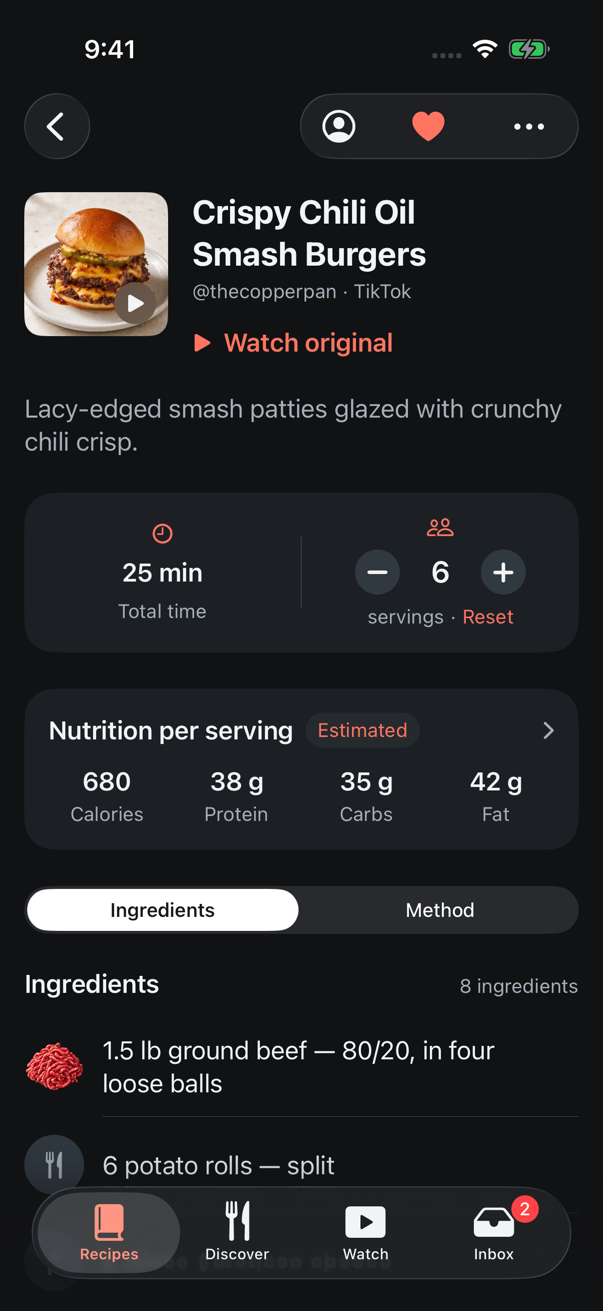
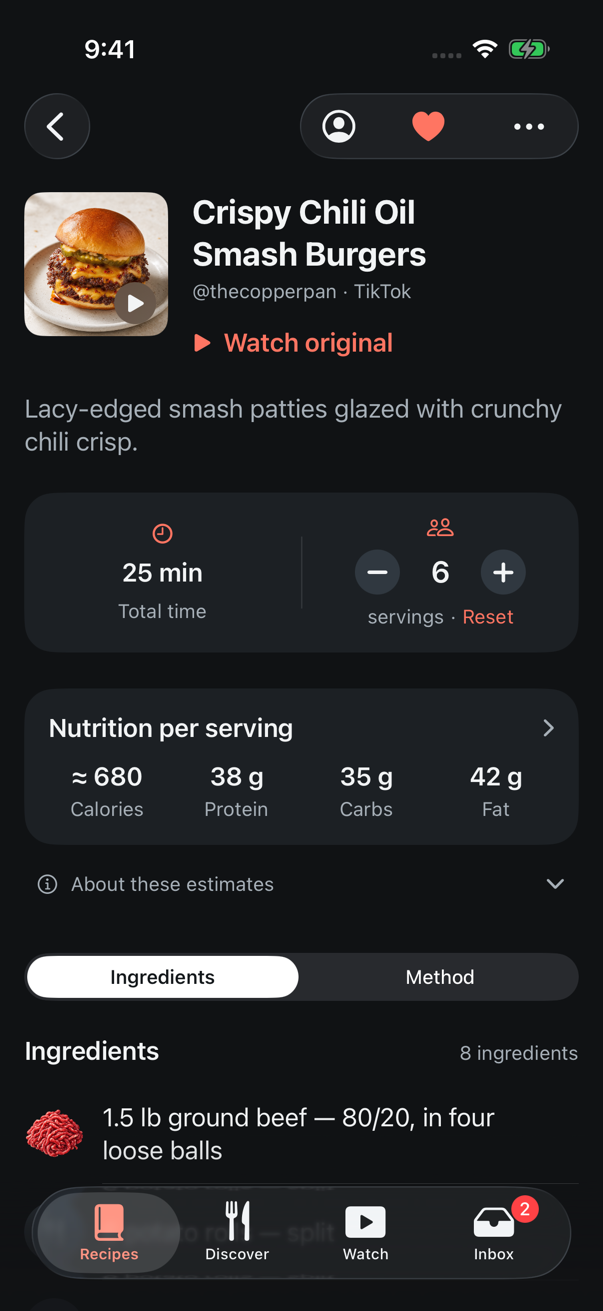
Record the recipe details layout change with before and after captures

diff --git a/docs/verification/2026-09-17-recipe-details-layout.md b/docs/verification/2026-09-17-recipe-details-layout.md
@@ -1,0 +1,197 @@
+# Recipe details: compact header, Watch original, inline servings, quiet estimates
+
+Date: September 17, 2026
+Issues: [#151](https://github.com/chetangoel01/overeasy/issues/151),
+[#150](https://github.com/chetangoel01/overeasy/issues/150),
+[#148](https://github.com/chetangoel01/overeasy/issues/148),
+[#145](https://github.com/chetangoel01/overeasy/issues/145)
+Branch: `codex/feedback-recipe-details`, stacked on
+`codex/feedback-resolution-2026-09-17`.
+Status: **built, tested and captured on a simulator created for the task
+(iPhone 17 Pro, iOS 26.5) and deleted after. Not run on a phone; VoiceOver
+structure was read from the accessibility tree, not listened to.**
+
+## Purpose
+
+Four pieces of TestFlight feedback about one screen. Opening a recipe repeated
+the photo the cook had just tapped, at 322 points, and pushed the facts below
+the fold. The original video was only reachable through the options menu — and
+a Discover preview has no options menu, so it had no way to the player at all.
+Changing servings cost a sheet, a stepper and a Done. And one estimated recipe
+said so three times over, in accent: on the value, on a badge, and in a
+sentence — again under every ingredient the normaliser had weighed.
+
+The owner approved a live mock of the screen on September 17; this is that
+screen.
+
+| Before | After |
+| --- | --- |
+| ![Before, dark](captures/2026-09-17-recipe-details/before-saved-dark.png) | ![After, dark](captures/2026-09-17-recipe-details/saved-dark.png) |
+| ![Before, light](captures/2026-09-17-recipe-details/before-saved-light.png) | ![After, light](captures/2026-09-17-recipe-details/saved-light.png) |
+
+## What the cook sees
+
+- **A compact header (#151).** A 96-point thumbnail beside the title and
+  byline, the description beneath. Time, servings and nutrition are whole on
+  the first screen: on the base the nutrition card ended 76 points under the
+  tab bar (`maxY` 866.7 against the bar's 791), and it now ends above it. At
+  accessibility sizes the thumbnail sits above the title and the platform
+  takes its own byline line. Missing or late artwork keeps the same square.
+- **Watch original (#150).** On a recipe whose link a platform player accepts,
+  a tertiary "Watch original" link sits under the byline and the thumbnail
+  wears a play badge; both open the existing player sheet. Neither appears —
+  and the options menu loses its entry — when `VideoEmbed.url(for:)` is `nil`,
+  so there is no dead control. It works the same on a Discover preview.
+  Closing the player returns to the same scroll position (measured: the
+  anchor row's frame was identical before and after).
+- **Inline servings (#148).** The band is still two even cells. The right one
+  is the people glyph, the count between a round minus and plus, and the word
+  "servings". After a change that line reads "servings · Reset". The band's
+  frame is identical with and without Reset. The buttons disable at 1 and at
+  `RecipeContractLimits.maximumServings`. Nothing is saved, the scaling still
+  resets when the recipe changes and is still handed to Cook mode. A band with
+  nothing to scale (the reimport sheet, a recipe claiming no yield) keeps the
+  read-only "Yield" cell. `ServingsSheet` is deleted.
+- **Quiet estimates (#145).** A value keeps one short hedge — "About 45 min",
+  "≈ 560", "servings, estimated" — and the reasons live once, in a collapsed
+  "About these estimates" row under the nutrition card (under the band when
+  there is no nutrition; absent when there is nothing to list). Routine
+  nutrition-amount assumptions (`ingredients[i].nutritionAmount`) moved off
+  the rows into that note, named by ingredient. "Not counted" and doubts
+  about an ingredient or step stay on their line, in `Label.secondary`. The
+  accent time note and the "Estimated" pill are gone; "Partial" stays,
+  neutral. The review notice is untouched.
+
+## Decisions
+
+**The owner's**, from the approved mock: the thumbnail header and its 22-point
+bold title; "a link under the byline" for the video, with the thumbnail doing
+the same; the count *between* the buttons with nothing else on that line
+(after the first design crowded it) and "servings · Reset" beneath; one
+disclosure for estimate reasons, with routine ingredient assumptions moved
+into it. Also his, on September 17: UI tests cut to smoke journeys.
+
+**Engineering calls, open to veto:**
+
+- **`compactTitle`** (`.title2`, bold) is a new type role rather than a reuse:
+  `title` takes three lines beside a thumbnail and `recipeTitle` is 20-point
+  semibold, which is a card's name, not a screen's.
+- **The stepper's circles are `Surface.badge`, not steel.** The brief said
+  steel; DESIGN.md says steel disappears on a raised card, which the band is.
+  `LadleIconButton` gained an `onCard` tone and a `diameter`, so the buttons
+  are the shared icon button — 30 points drawn, 44 to press — not a one-off.
+  Their glyph is the shared 16-point bold, a little heavier than the mock's.
+- **The count is `recipeTitle`** (20 semibold), as the deleted sheet's was.
+- **One adjustable element for VoiceOver** ("Servings", "6 servings, scaled
+  from 4 servings", swipe up or down), with Reset a separate button named
+  "Reset to 4 servings". The minus and plus are therefore not in the
+  accessibility tree, so the smoke test presses the control's trailing end.
+- **One settled announcement.** "Scaled to 8 servings. Ingredient amounts
+  updated." / "Back to the recipe as written." waits a second after the last
+  change; a newer change replaces a pending one. Per-step announcements would
+  double what the adjustable element already reads.
+- **Reset's target grows down and sideways only** (a content shape offset into
+  the band's padding), so the line keeps its 18-point height and a press on
+  the bottom of the plus is never a Reset. Probed both ways on the simulator:
+  a press 6 points above the target stepped 5 → 6, and a press at the
+  target's lower edge, about 30 points under the word, reset.
+- **A hedged yield, scaled, reads plainly.** "servings, estimated" and "Yield
+  unknown" appear only at the recipe's own count; once the cook has chosen a
+  number it is theirs, so "Yield unknown" never sits over "· Reset".
+- **"Watch original" uses the tertiary style at zero inset, held to its
+  label**, so the glyph lands on the title's edge and the blank row beside it
+  is not a button. Its height is the role's 52, not 44.
+- **The play badge is material with a primary glyph**, like the grid card's
+  favourite, so it holds contrast over any photo in both appearances.
+- **Estimate notes are a subject over its reason**, and the brief's sentence
+  "Nutrition is estimated from the ingredient amounts." became "Nutrition"
+  over "Estimated from the ingredient amounts." so every line has that shape.
+- **The reimport sheet loses routine notes too.** It reuses `IngredientList`
+  and has no disclosure. It compares two versions of a recipe's text, and the
+  normaliser's working is not part of that text.
+- **The demo library's Sheet-Pan Gochujang Chicken is now fully estimated** —
+  time, yield, and two assumed ingredient amounts — so the note has honest
+  content to show. No other demo recipe changed.
+- **On the recipe page "≈" now marks any estimate**, as the sheet, Health
+  export and Watch feed already did. Library cards still mark only an
+  incomplete total. `RecipePresentation.swift` and the
+  [marker record](2026-09-07-approximate-nutrition-marker.md) say so.
+
+## Affected components
+
+- `Ladle/RecipeDetail/RecipeDetailView.swift` — header, thumbnail and link,
+  playability gate on the menu, the facts group; `estimateNote` deleted.
+- `Ladle/RecipeDetail/RecipeMetadataBand.swift` — inline stepper, label line,
+  settled announcement; `ServingsSheet` and the accent time note deleted;
+  nutrition card without the pill; `ladleYieldNote`, `isYieldEstimated`.
+- `Ladle/RecipeDetail/RecipeEstimates.swift` — new: `isRoutineEstimate`,
+  `ladleEstimateNotes`, `RecipeEstimatesDisclosure`.
+- `Ladle/RecipeDetail/IngredientList.swift`, `MethodList.swift` — neutral
+  notes; routine ones withheld from rows.
+- `Ladle/Design/LadleTypography.swift` (`compactTitle`),
+  `LadleComponents.swift` (`onCard`, `diameter`; `EstimateLabel` deleted),
+  `RecipePresentation.swift` (comments), `Ladle/Data/PreviewFixtures.swift`.
+- Docs: `DESIGN.md` (type table, header, video, servings, icon button,
+  Estimates), and the [scaling](2026-09-08-recipe-scaling.md),
+  [time display](2026-09-02-recipe-time-display.md),
+  [approximate marker](2026-09-07-approximate-nutrition-marker.md) and
+  [HIG fixes](2026-09-08-hig-fixes.md) records.
+
+## Verification
+
+- **Red first.** #151: the first-screen frame assertion failed on the base
+  ("866.67 is greater than 791.0"). #150: the Discover preview had no link and
+  no thumbnail button (3 failures). #148: no `recipe.servings` on the old band
+  (2 failures). #145: `RecipeEstimatesTests` against a behaviour-less shell, 2
+  assertion failures in the list test; the empty-list test passes against a
+  shell by construction and guards the hide rule only once the list is real.
+- **Final run, scratch capture harness removed:** `-only-testing:LadleTests` —
+  "Executed 592 tests, with 1 test skipped and 0 failures (0 unexpected)"
+  (the 590 baseline plus the two estimates tests). Smoke UI journeys only —
[3 lines of base64/hex data omitted]
+  "Executed 3 tests, with 0 failures (0 unexpected)".
+- **UI tests, by the owner's instruction of September 17:** none added. The
+  Discover-preview video assertions written for #150 were taken back out
+  (playability is already unit-tested in `LibraryNavigationStateTests`); the
+  scaling journey was cut to increment → scaled row → Reset;
+  `HIGRegressionUITests.testServingsResetIsReachableAtLargestTextSize`, which
+  guarded the deleted sheet, was deleted rather than re-pointed.
+- **Checked by hand in an uncommitted harness, not by a kept test:** the
+  player opens from a Discover preview and from the thumbnail; a hand-typed
+  recipe shows no link, badge, menu entry or disclosure; ten rapid presses
+  count ten (4 → 14); the floor holds at 1; the disclosure reads "Collapsed" /
+  "Expanded", lists the five notes on the chicken, and no routine reason is on
+  a row; "Not counted" is still on the udon's oyster sauce.
+- `git diff --check` clean before each commit; `xcodegen generate` is a no-op
+  apart from the two new files.
+
+## Captures
+
+Half-size (603 × 1311), in `captures/2026-09-17-recipe-details/`. Dark and
+light pairs were compared by checksum before being kept: the first dark set
+was discarded because the appearance switch had not reached the app.
+
+| | |
+| --- | --- |
+| Discover preview, before | [dark](captures/2026-09-17-recipe-details/before-discover-dark.png), [light](captures/2026-09-17-recipe-details/before-discover-light.png) |
+| Discover preview, after | [dark](captures/2026-09-17-recipe-details/discover-preview-dark.png), [light](captures/2026-09-17-recipe-details/discover-preview-light.png) |
+| Header at AX5 | [dark](captures/2026-09-17-recipe-details/header-ax5-dark.png) |
+| No playable video | [dark](captures/2026-09-17-recipe-details/unplayable-dark.png) |
+| Servings sheet, before | [dark](captures/2026-09-17-recipe-details/before-servings-sheet-dark.png) |
+| Scaled to six | [dark](captures/2026-09-17-recipe-details/servings-scaled-dark.png), [light](captures/2026-09-17-recipe-details/servings-scaled-light.png) |
+| Band at AX5, scaled | [dark](captures/2026-09-17-recipe-details/band-ax5-dark.png), [light](captures/2026-09-17-recipe-details/band-ax5-light.png) |
+| Estimates, before | [band and pill](captures/2026-09-17-recipe-details/before-estimates-dark.png), [ingredient row](captures/2026-09-17-recipe-details/before-ingredient-notes-dark.png) |
+| Estimates note open | [dark](captures/2026-09-17-recipe-details/estimates-open-dark.png), [light](captures/2026-09-17-recipe-details/estimates-open-light.png), [AX5](captures/2026-09-17-recipe-details/estimates-open-ax5-dark.png) |
+| A note that stays on its row | [dark](captures/2026-09-17-recipe-details/row-note-dark.png) |
+
+## Rough edges
+
+- At AX5 the minus and plus stay 30 points beside a very large count. They
+  are fixed-size controls on 44-point targets, like the navigation bar's.
+- The likes, rating and "Saved by" line in the mock is #143 and is not here.
+- No demo recipe has an incomplete total, so the neutral "Partial" pill was
+  changed but not photographed.
+- `DESIGN.md`'s colour table gives `Surface.badge` light as `#CDD5DC`; the
+  code, which the stepper uses, is `#DCD5CC`. Left as found.
